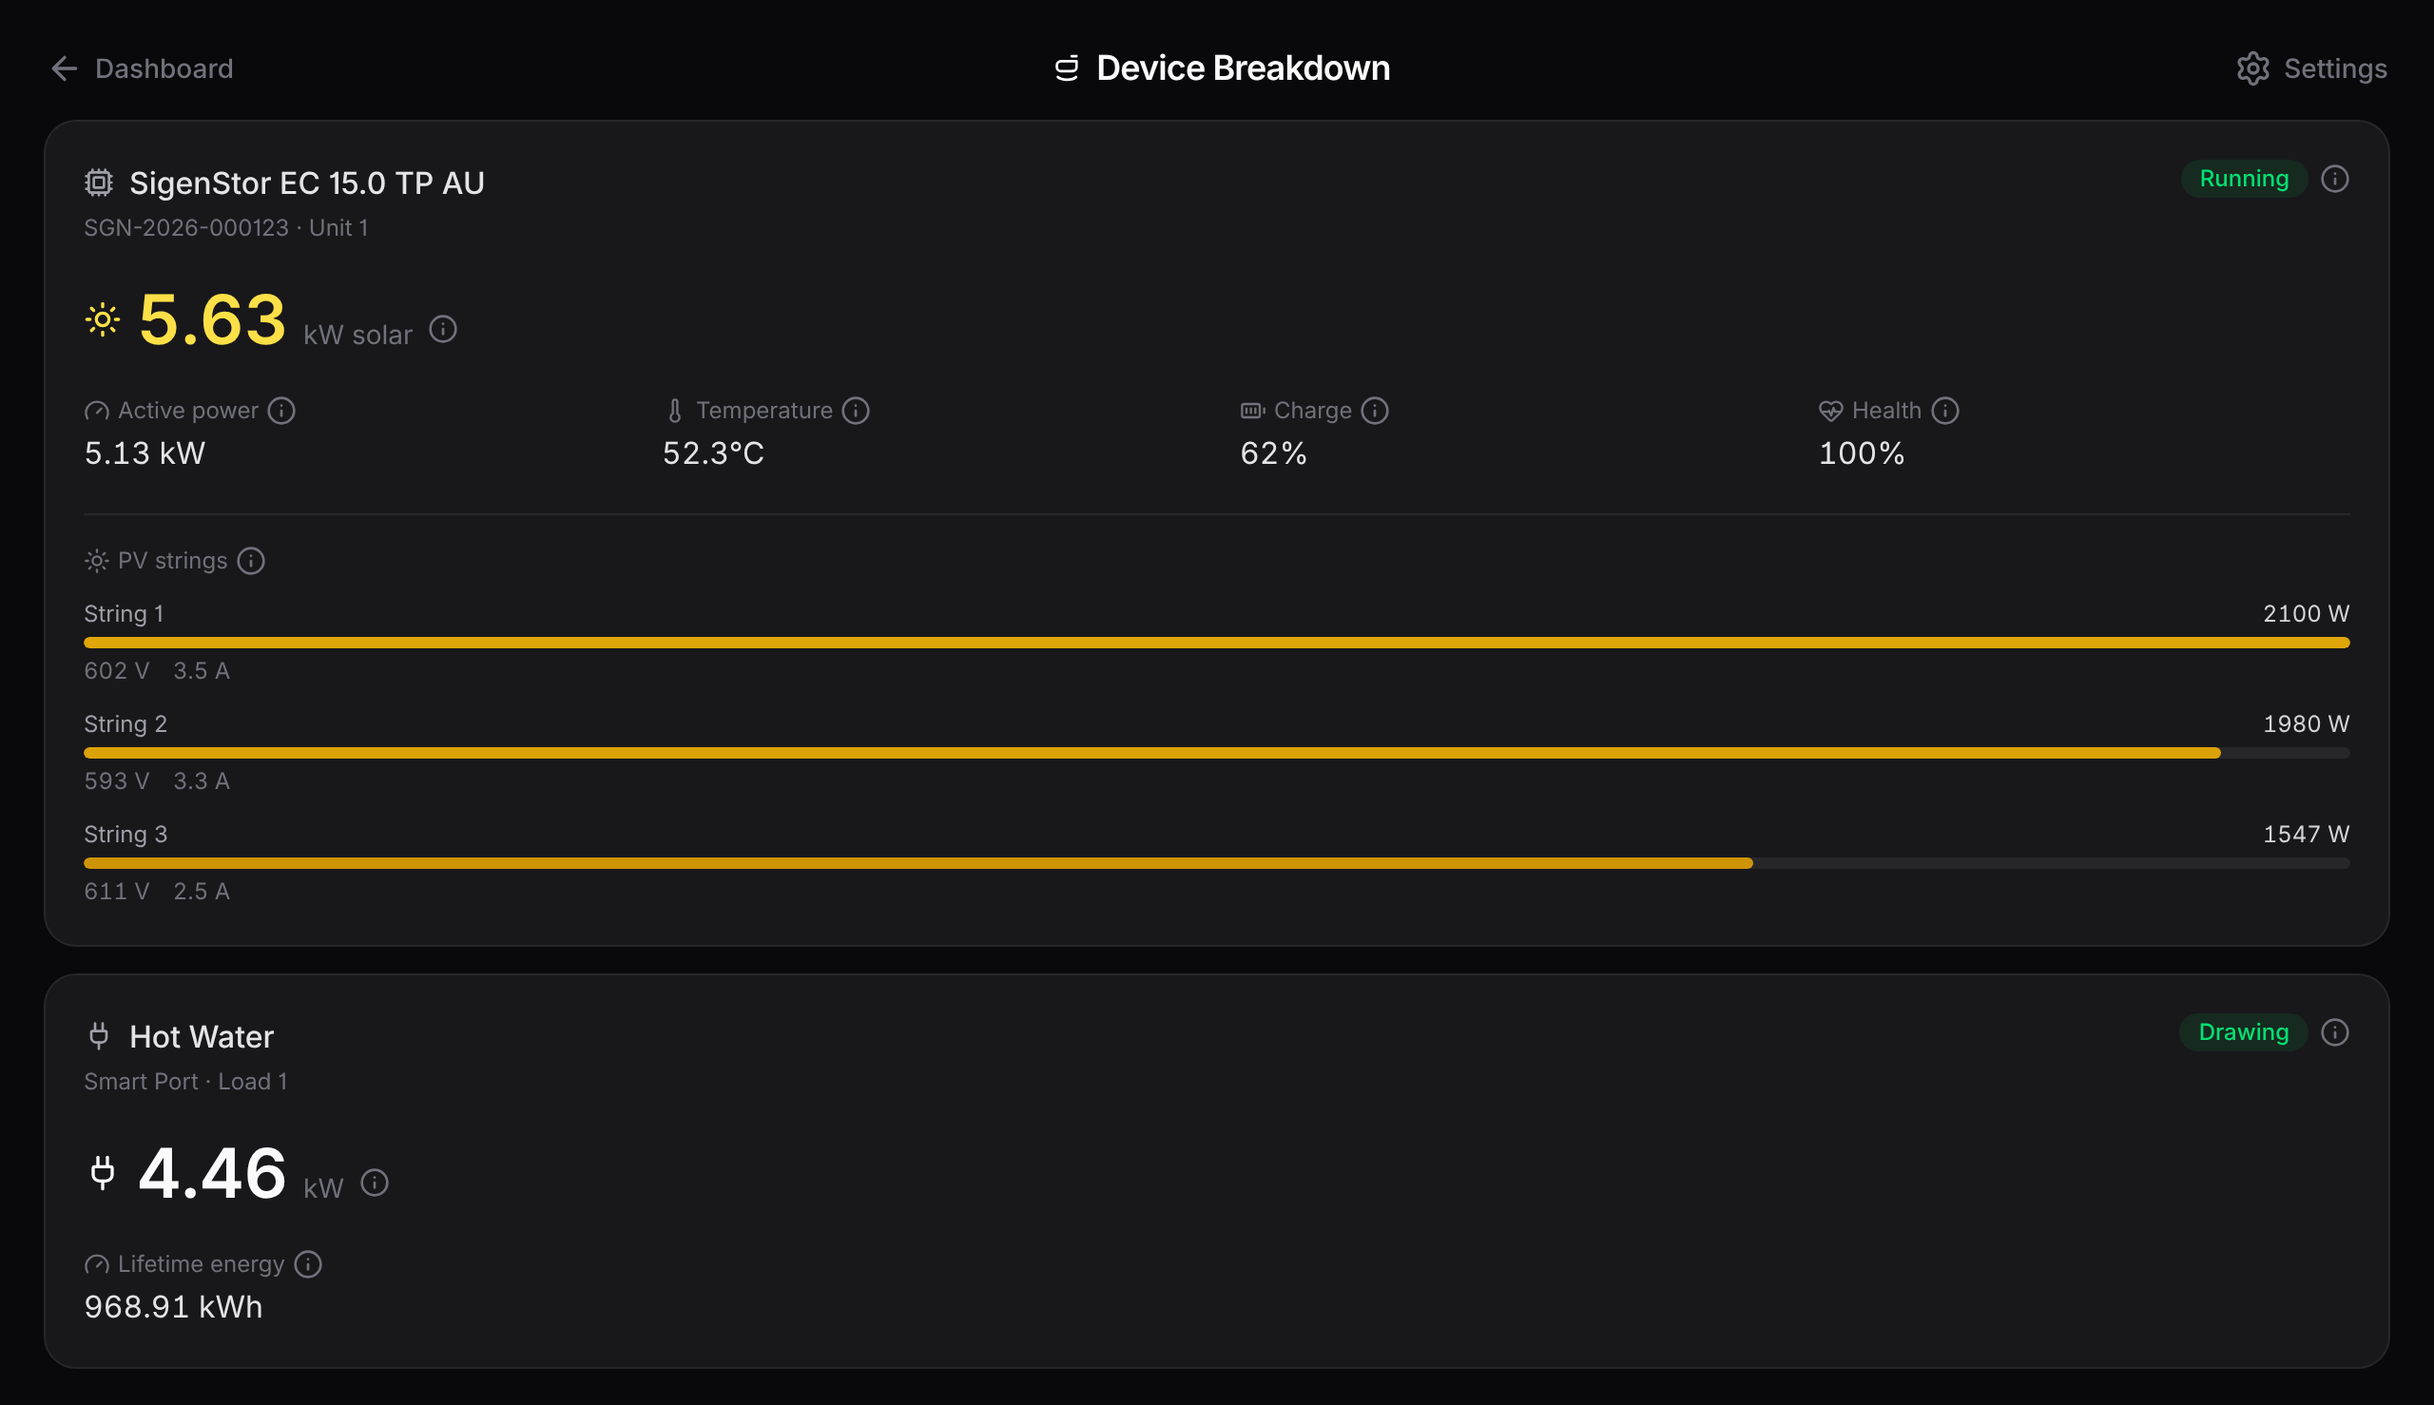
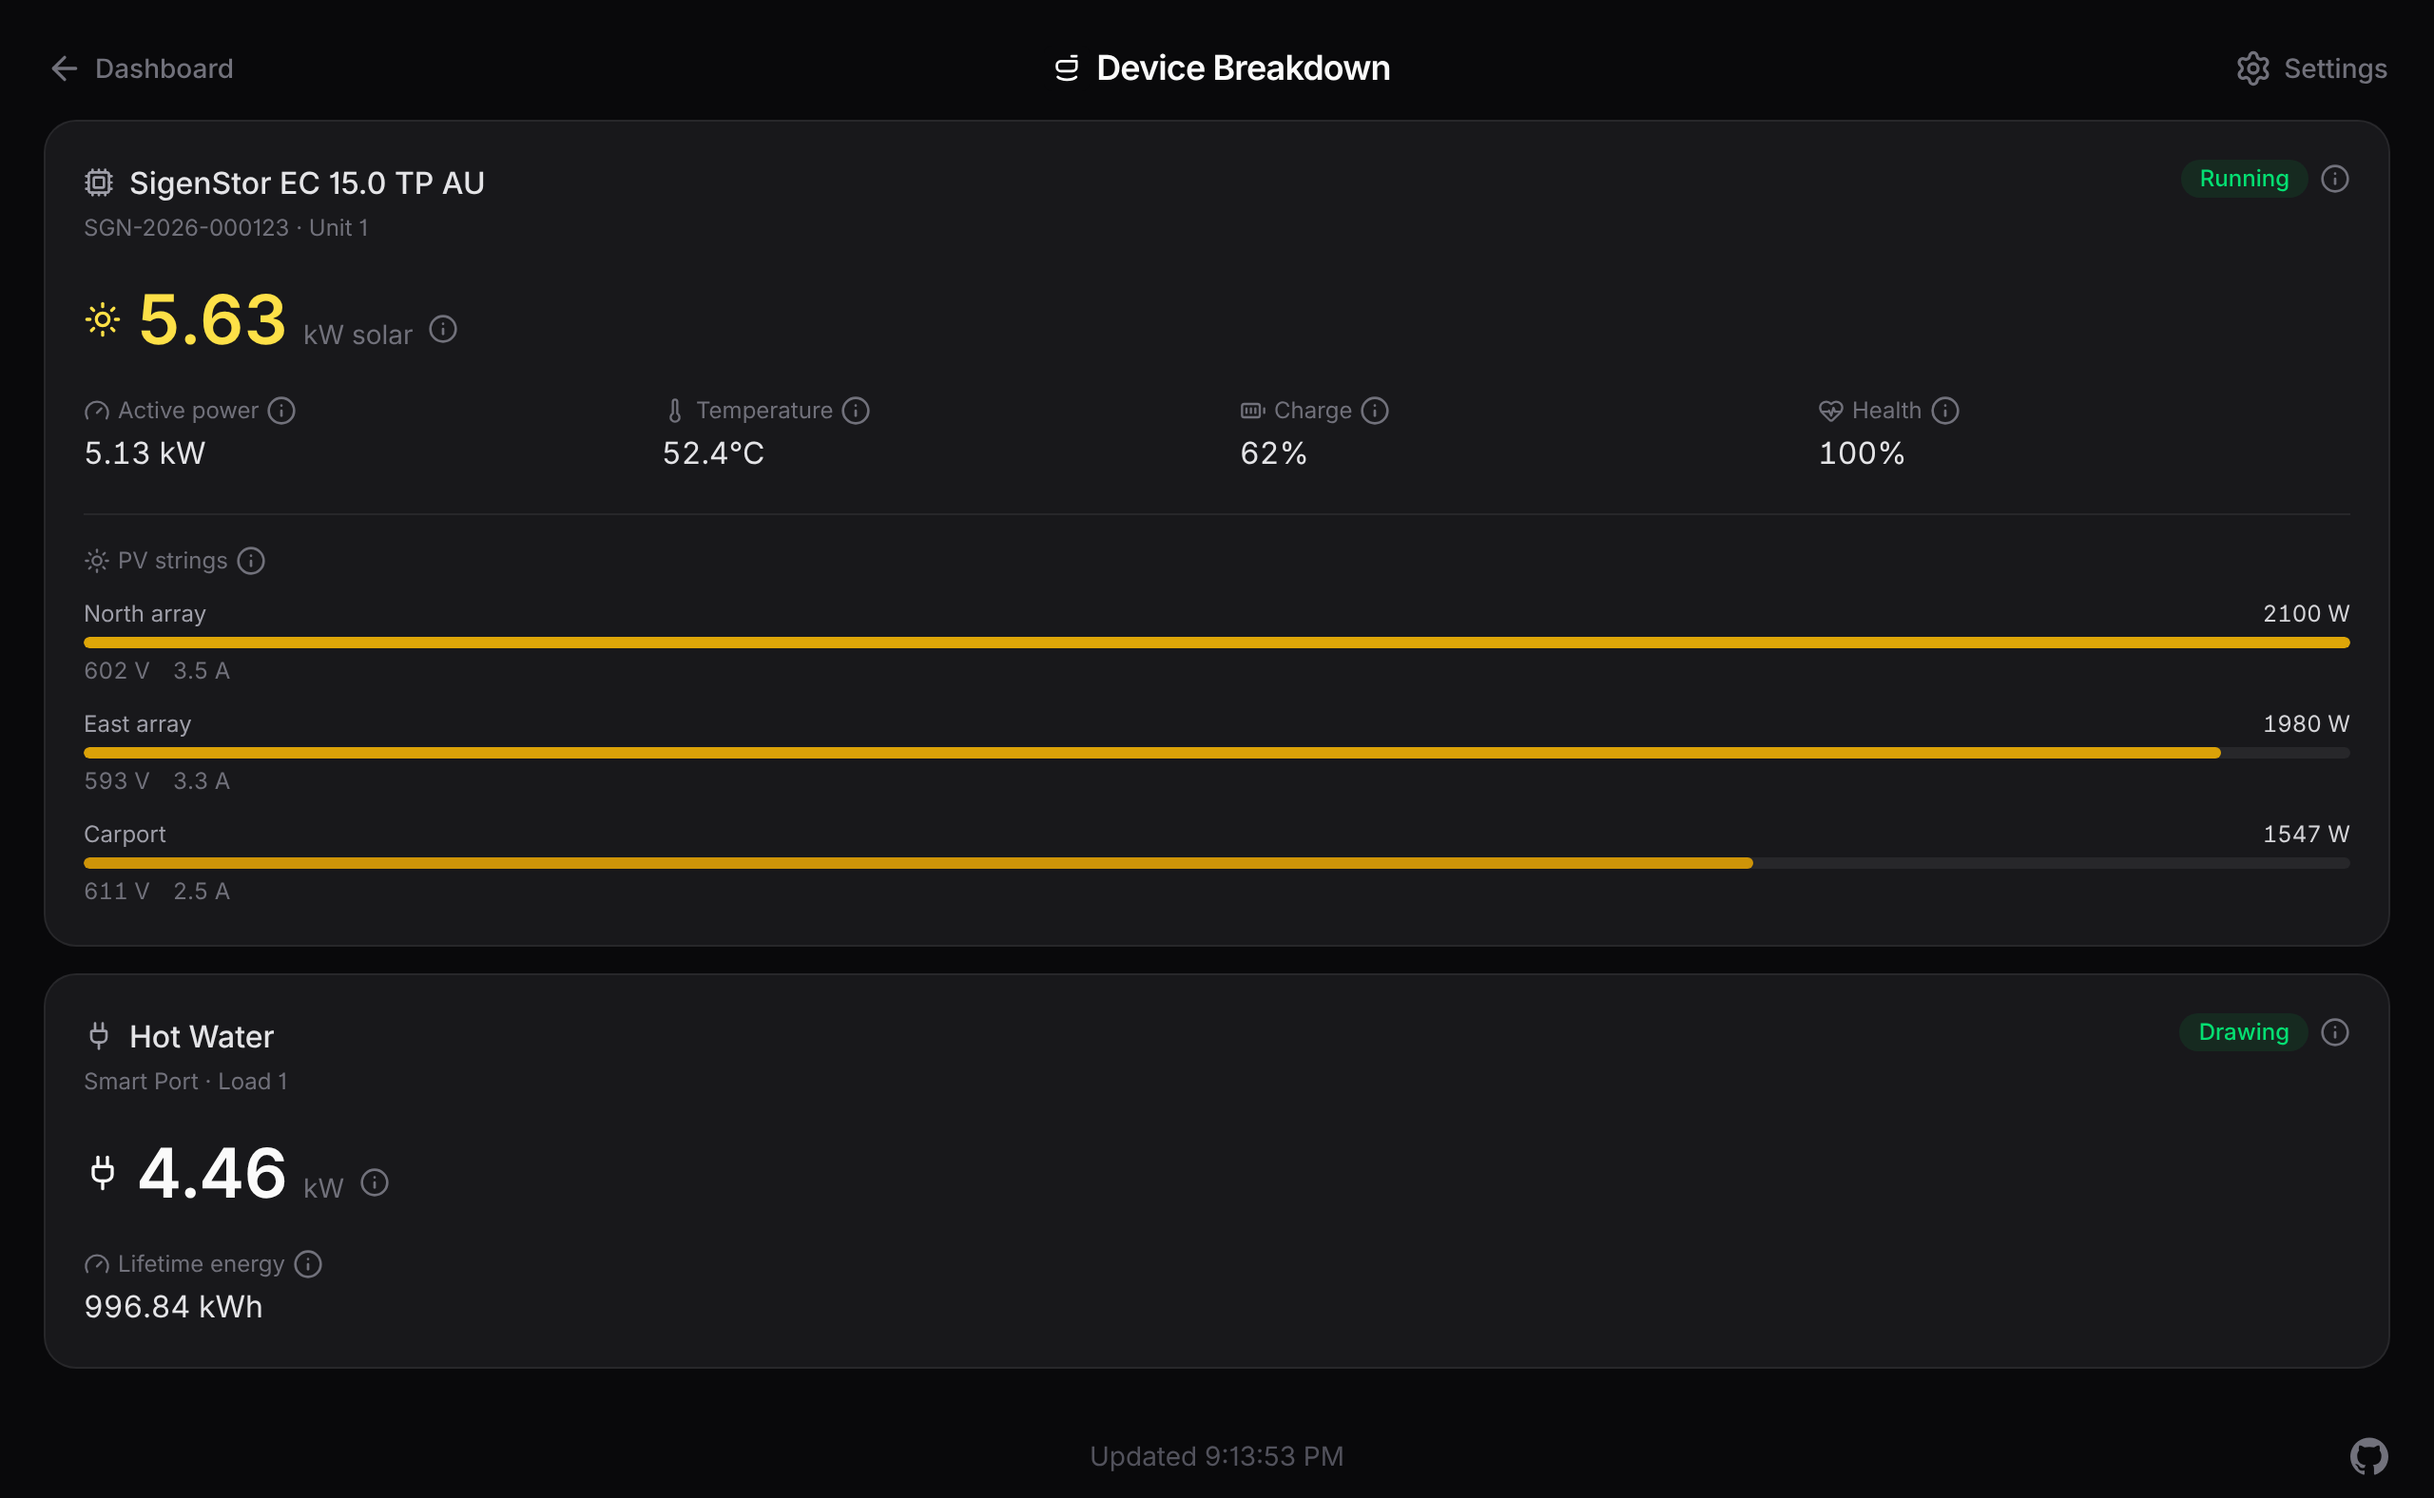
Added a Settings > Solar screenshot, refreshed the devices and settings shots for the new Solar rail entry and Device Breakdown GitHub footer, and taught the screenshot and walkthrough harnesses to inject sample PV string names.

diff --git a/docs/DEEP_DIVE.md b/docs/DEEP_DIVE.md
@@ -429,7 +429,7 @@ Edit the UI on `http://localhost:5173`, not 5163. Port 5163 (and `npm start`, an
 
 ## Regenerating the README screenshots
 
-The PNGs in `docs/screenshots/` are captured from the running app by `scripts/capture-screenshots.sh` (`npm run screenshots`). It pulls the official Playwright Docker image (no host install), drives headless Chromium across desktop, tablet, and phone viewports, and writes the PNGs back into `docs/screenshots/` owned by you. One run produces the whole set of 20.
+The PNGs in `docs/screenshots/` are captured from the running app by `scripts/capture-screenshots.sh` (`npm run screenshots`). It pulls the official Playwright Docker image (no host install), drives headless Chromium across desktop, tablet, and phone viewports, and writes the PNGs back into `docs/screenshots/` owned by you. One run produces the whole set of 21.
 
 Point it at any instance carrying live history with `SIGEN_URL`, so the trends charts render real readings instead of an empty system:
 
@@ -444,9 +444,9 @@ SIGEN_URL=http://bridge.lan:5163 npm run screenshots data
 PLAYWRIGHT_VERSION=1.59.0 SIGEN_URL=http://bridge.lan:5163 npm run screenshots
 ```
 
-The optional argument limits the run to a group: `data` (dashboard, trends, devices, and fullscreen shots across every viewport), `settings` (the five settings pages), `wizard` (the gateway step), or `all` (the default). `SCREENSHOT_OUT` redirects the output to a different repo-relative folder, handy for a dry run that leaves the committed PNGs alone.
+The optional argument limits the run to a group: `data` (dashboard, trends, devices, and fullscreen shots across every viewport), `settings` (the six settings pages), `wizard` (the gateway step), or `all` (the default). `SCREENSHOT_OUT` redirects the output to a different repo-relative folder, handy for a dry run that leaves the committed PNGs alone.
 
-The capture lives in `scripts/capture-screenshots.mjs`: the four viewport profiles (desktop 1280×800, tablet 1194×834, phone 393×852 and 852×393, all at 2× scale), the routes, and the settings sizing. The dashboard, fullscreen, and devices shots replace the live readings with a fixed daytime sample (solar across three strings, a Smart Port hot water load drawing on the surplus, the battery charging, the grid exporting), so they look the same whether the target is in full sun or sitting dark at night, and the serial is swapped for a placeholder. Every context renders in one timezone (`Australia/Sydney`, override with `SCREENSHOT_TZ`) so the footer clock, the cost figure, and the trends x-axis stay consistent between runs. The trends shots keep the real history. Each settings shot is sanitized in-page before it fires, so no real values reach a committed PNG: the gateway host is overwritten with `192.168.1.50`, the HomeKit PIN is masked, and the bind interface is cleared. The wizard shot runs a real Test connection, so the target needs a reachable gateway.
+The capture lives in `scripts/capture-screenshots.mjs`: the four viewport profiles (desktop 1280×800, tablet 1194×834, phone 393×852 and 852×393, all at 2× scale), the routes, and the settings sizing. The dashboard, fullscreen, devices, and Settings → Solar shots replace the live readings with a fixed daytime sample (solar across three named strings, a Smart Port hot water load drawing on the surplus, the battery charging, the grid exporting), so they look the same whether the target is in full sun or sitting dark at night, and the serial and string names are swapped for placeholders. Every context renders in one timezone (`Australia/Sydney`, override with `SCREENSHOT_TZ`) so the footer clock, the cost figure, and the trends x-axis stay consistent between runs. The trends shots keep the real history. The Gateway and Apple Home settings shots are sanitized in-page before they fire, so no real values reach a committed PNG: the gateway host is overwritten with `192.168.1.50`, the HomeKit PIN is masked, and the bind interface is cleared. The wizard shot runs a real Test connection, so the target needs a reachable gateway.
 
 Chromium launches with `--font-render-hinting=none`. Headless Linux Chromium otherwise hints to whole pixels, which snaps glyph advances and spaces the small labels unevenly; disabling it keeps the subpixel positioning a real browser uses, so the captures match the live app.
 

diff --git a/README.md b/README.md
@@ -258,6 +258,11 @@ The same settings section can put the loads on the dashboard. One switch adds th
   <br/><em>Device Breakdown</em>
 </p>
 
+<p align="center">
+  <img src="docs/screenshots/settings-solar.png" alt="Settings → Solar" width="100%"/>
+  <br/><em>Settings → Solar</em>
+</p>
+
 Open it from the **Devices** button in the dashboard header or from **Settings → System**. The page is read-only and updates over the dashboard's live stream; the same per-device data also feeds the [`/api/snapshot`](#json-api) `devices` array. How discovery works, and which device types aren't read yet, is in [`docs/DEEP_DIVE.md`](docs/DEEP_DIVE.md#multiple-inverters-and-sources).
 
 ## JSON API
